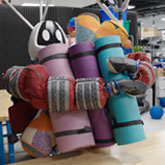
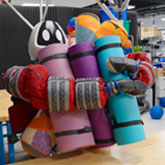
punyo saturation

diff --git a/site/cv/paperspatents.html b/site/cv/paperspatents.html
@@ -51,7 +51,7 @@
 
 
         <li><span><a href="#EGRL" title="EGRL">
-        Learning contact-rich whole-body manipulation with example-guided reinforcement learning (TBD)</a></span></li>
+        Learning Contact-Rich Whole-Body Manipulation with Example-Guided Reinforcement Learning (TBD)</a></span></li>
 
         <li><span><a href="#Visuomotor" title="Visuomotor">
         Exploring Locally Linear Representations for Visuomotor and Tactile Control (RA-L, ICRA)</a></span></li>
@@ -578,7 +578,7 @@
 <a name="EGRL" id="EGRL"></a>  
 <div class="well">Jose Barreiros, Aykut Onol, Mengchao Zhang, Sam Creasey, Aimee Goncalves, Andrew Beaulieu,<br>Aditya Bhat, Kate Tsui, <strong>Alex Alspach</strong><br />
 
-  <div class="paper-title">Learning contact-rich whole-body manipulation with example-guided reinforcement learning
+  <div class="paper-title">Learning Contact-Rich Whole-Body Manipulation with Example-Guided Reinforcement Learning
   </div>
   TBD
   <br />
@@ -1439,9 +1439,10 @@ http://patorjk.com/software/taag/#p=display&f=Big&t=Hubo%20Wiki FONT: Big
 
 
 
+<!-- Patents -->
 
 
-
+<!--
 
 
 <br />
@@ -1453,7 +1454,6 @@ http://patorjk.com/software/taag/#p=display&f=Big&t=Hubo%20Wiki FONT: Big
 
 
 
-<!-- Patents -->
 
 
 <a name="PoseFlexibleEE" id="PoseFlexibleEE"></a>  
@@ -1534,12 +1534,7 @@ http://patorjk.com/software/taag/#p=display&f=Big&t=Hubo%20Wiki FONT: Big
   Toyota Research Institute Inc. <br> 
   United States Patent 10668627 <br>
   Filed 03/01/2018, Granted 06/02/2020
-  <!--<strong>Granted.</strong> US 9XXXXXX BX -->
   <br /><br />
-
-  <!--
-  <strong>abstract:</strong> Systems and methods for detecting pose and force against an object are provided. A method includes receiving a signal from a deformable sensor comprising data from a deformation region in a deformable membrane resulting from contact with the object utilizing an internal sensor disposed within an enclosure and having a field of view directed through a medium and toward a bottom surface of the deformable membrane. The method also determines a pose of the object based on the deformation region of the deformable membrane. The method also determines an amount of force applied between the deformable membrane and the object is determined based on the deformation region of the deformable membrane.
--->
 
 
 
@@ -1580,7 +1575,6 @@ http://patorjk.com/software/taag/#p=display&f=Big&t=Hubo%20Wiki FONT: Big
   Toyota Research Institute Inc. <br>
   United States Patent 10628968 <br>
   Filed 12/05/2018, Granted 04/21/2020
-  <!--<strong>Granted.</strong> US 9XXXXXX BX -->
   <br /><br />
 
 
@@ -1623,13 +1617,8 @@ http://patorjk.com/software/taag/#p=display&f=Big&t=Hubo%20Wiki FONT: Big
   Toyota Research Institute Inc. <br>
   United States Patent 10549428 <br>
   Filed 03/06/2018, Granted 02/04/2020
-  <!--<strong>Granted.</strong> US 9XXXXXX BX -->
   <br /><br />
 
-<!--
-  <strong>abstract:</strong> Robots having varying touch sensitivity are provided. A robot may include a plurality of deformable sensors with differing levels of depth resolution and spatial resolution for detecting a pose and force associated with an object. Each deformable sensor may have an enclosure comprising a deformable membrane, the enclosure configured to be filled with a medium. Each deformable sensor may further include an optical sensor, disposed within the enclosure, having a field of view configured to be directed toward a bottom surface of the deformable membrane. The robot may also include a first portion and a second portion, each comprising at least one deformable sensor of the plurality of deformable sensors.
-
--->
 
 
 <div id="link-table">
@@ -1753,4 +1742,4 @@ http://patorjk.com/software/taag/#p=display&f=Big&t=Hubo%20Wiki FONT: Big
 
 </div>
 
-
+-->

diff --git a/site/cv/education.html b/site/cv/education.html
@@ -62,12 +62,11 @@
 
         <td>
         
-        <a target="_blank" href="http://dasl.unlv.edu/">Drexel Autonomous Systems Lab, DASL</a> (2007-2012)<br />Drexel University, Philadelphia, PA, USA -  <a target="_blank" href="http://www.pages.drexel.edu/~pyo22/">Dr. Paul Oh</a><br /><br />
+        Drexel Autonomous Systems Lab, DASL (2007-2012)<br />Drexel University, Philadelphia, PA, USA - Dr. Paul Oh<br /><br />
         
-        <a target="_blank" href="http://www.rainbow-robotics.com/">HUBO Lab (now Rainbow Robotics)</a> (Sept. 2010 - March 2011)<br />KAIST, Daejeon, South Korea  -  <!--<a target="_blank" href="http://ohzlab.kaist.ac.kr/c_about">-->Dr. JunHo Oh</a>, <a target="_blank" href="http://www.pages.drexel.edu/~pyo22/">Dr. Paul Oh</a><br /><br />
+        HUBO Lab (Sept. 2010 - March 2011)<br />KAIST, Daejeon, South Korea  -  Dr. JunHo Oh, Dr. Paul Oh<br /><br />
         
-        <a target="_blank" href="http://imr.felk.cvut.cz/">Intelligent and Mobile Robotics Group, IMR</a> (April 2012)<br />Czech Technical University, Prague, Czech Republic  -  Dr. William Regli, Dr. Miroslav Kulich<br /><br />
-        <!--<a target="_blank" href="http://gicl.cs.drexel.edu/William_C._Regli">Dr. William Regli</a>, <a target="_blank" href="http://cyber.felk.cvut.cz/people/page.php?id=104&detailed=y">Dr. Miroslav Kulich</a><br /><br /></small>-->
+        Intelligent and Mobile Robotics Group, IMR (April 2012)<br />Czech Technical University, Prague, Czech Republic  -  Dr. William Regli, Dr. Miroslav Kulich<br /><br />
         </td>
 
       </tr>        

diff --git a/site/style/theme_js/tag_sorting.js b/site/style/theme_js/tag_sorting.js
@@ -7,7 +7,7 @@ function sortAll()
 {
 	$(".sort-button").removeClass("btn-xs-active");
 	$(".sort-all").addClass("btn-xs-active");
-	$( ".all" ).slideDown( 400 )
+	$( ".all" ).slideDown( 10 )
 	
 }
 
@@ -113,7 +113,7 @@ function hideDate(tag)
 
 function sortDivs(tag)
 {
-	var slideTime = 400; //400
+	var slideTime = 0; //400
 	if ( $( "#sort-button-" + tag ).hasClass( "btn-xs-active" ) ) {
 		//sortAll();
 	}
